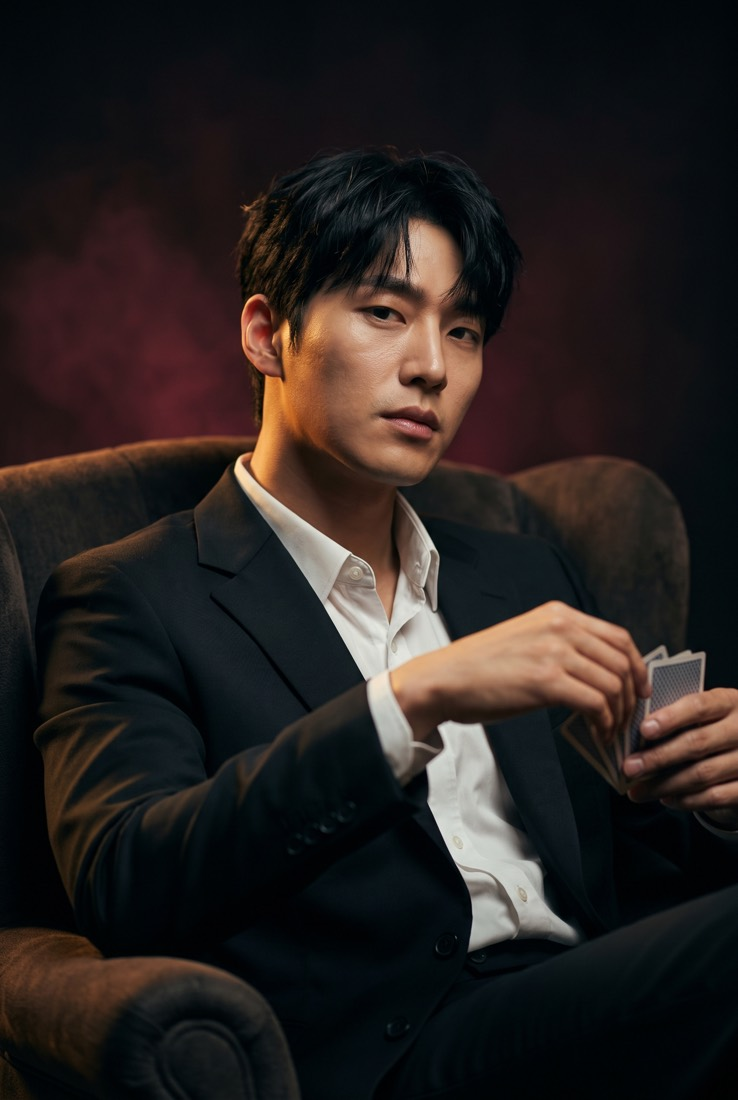
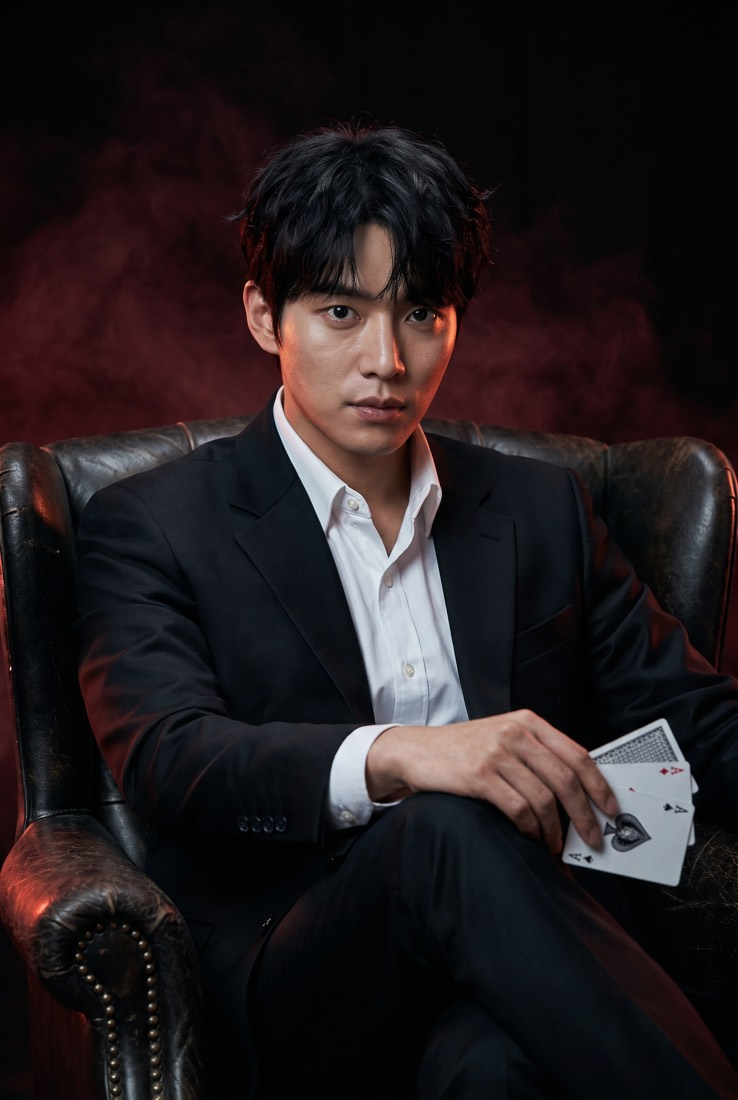
가상 캐릭터 6인 전원 공개 — 포커 스퀴즈 오픈 애니메이션 적용

diff --git a/index.html b/index.html
@@ -179,7 +179,16 @@ a{color:inherit}
 .gc:hover{border-color:var(--red-hot)}
 .gc .ph{position:relative;aspect-ratio:3/4;background:#0F0D10;perspective:1300px;cursor:pointer}
 .gc .flipin{position:absolute;inset:0;transform-style:preserve-3d;transition:transform .85s cubic-bezier(.2,.7,.2,1)}
-.gc .ph.open .flipin{transform:rotateY(180deg)}
+.gc .ph.open .flipin{transform:rotateY(180deg);animation:squeeze 2.6s cubic-bezier(.3,.12,.25,1)}
+@keyframes squeeze{
+  0%{transform:rotateY(0deg)}
+  12%{transform:rotateY(16deg) translateY(-10px) scale(1.02)}
+  30%{transform:rotateY(30deg) translateY(-10px) scale(1.02)}
+  56%{transform:rotateY(62deg) translateY(-10px) scale(1.02)}
+  68%{transform:rotateY(54deg) translateY(-6px) scale(1.01)}
+  100%{transform:rotateY(180deg)}
+}
+.gc .ph.open .face.cardback{box-shadow:0 24px 60px rgba(0,0,0,.6)}
 .gc .face{position:absolute;inset:0;backface-visibility:hidden;overflow:hidden}
 .gc .face.cardback{display:flex;flex-direction:column;align-items:center;justify-content:center;gap:14px;border:10px solid #0F0D10;background:
   repeating-linear-gradient(45deg, rgba(242,193,78,.14) 0 2px, transparent 2px 9px),
@@ -197,7 +206,7 @@ a{color:inherit}
   repeating-linear-gradient(-45deg, rgba(232,53,79,.10) 0 2px, transparent 2px 10px), #131015}
 .gc .face.reveal.tba .suit{font-size:5rem;color:rgba(242,193,78,.35);line-height:1}
 .gc .face.reveal.tba .tbamsg{position:absolute;bottom:16px;left:0;right:0;text-align:center;font-family:var(--mono);font-size:.62rem;letter-spacing:.24em;color:var(--gray)}
-@media (prefers-reduced-motion: reduce){.gc .flipin{transition:none}}
+@media (prefers-reduced-motion: reduce){.gc .flipin{transition:none}.gc .ph.open .flipin{animation:none}}
 .gc .bd{padding:18px 20px 20px}
 .gc .nm{display:flex;align-items:baseline;gap:10px;flex-wrap:wrap}
 .gc .nm b{font-family:var(--disp);font-weight:800;font-size:1.3rem;letter-spacing:.03em;text-transform:uppercase}
@@ -415,7 +424,7 @@ footer .mono{font-family:var(--mono);letter-spacing:.14em}
   <div class="gc">
     <div class="ph" role="button" tabindex="0" aria-label="card flip"><div class="flipin">
       <div class="face cardback"><span class="bsuit">K♠</span><span class="brand-sm">ALL-IN 2 · NOT OVER</span><span class="tap">TAP TO REVEAL</span></div>
-      <div class="face reveal tba"><span class="ai">AI VIRTUAL CHARACTER</span><span class="suit">♠</span><span class="tbamsg">VISUAL IN PRODUCTION</span></div>
+      <div class="face reveal"><span class="ai">AI VIRTUAL CHARACTER</span><img src="images/char_alex.jpg" alt=""></div>
     </div></div>
     <div class="bd"><div class="nm"><b data-i="c3_n">알렉스</b><span>THE EMPEROR</span></div>
       <div class="meta"><i data-i="c3_m1">30대 후반</i><i data-i="c3_m2">한국계 미국인</i><i data-i="c3_m3">두 얼굴의 황제</i></div>
@@ -424,7 +433,7 @@ footer .mono{font-family:var(--mono);letter-spacing:.14em}
   <div class="gc">
     <div class="ph" role="button" tabindex="0" aria-label="card flip"><div class="flipin">
       <div class="face cardback"><span class="bsuit">J♣</span><span class="brand-sm">ALL-IN 2 · NOT OVER</span><span class="tap">TAP TO REVEAL</span></div>
-      <div class="face reveal tba"><span class="ai">AI VIRTUAL CHARACTER</span><span class="suit">♣</span><span class="tbamsg">VISUAL IN PRODUCTION</span></div>
+      <div class="face reveal"><span class="ai">AI VIRTUAL CHARACTER</span><img src="images/char_jerry.jpg" alt=""></div>
     </div></div>
     <div class="bd"><div class="nm"><b data-i="c4_n">제리</b><span>THE BROTHER</span></div>
       <div class="meta"><i data-i="c4_m1">20대 초반</i><i data-i="c4_m2">한국계 미국인</i><i data-i="c4_m3">의리의 화신</i></div>
@@ -433,7 +442,7 @@ footer .mono{font-family:var(--mono);letter-spacing:.14em}
   <div class="gc">
     <div class="ph" role="button" tabindex="0" aria-label="card flip"><div class="flipin">
       <div class="face cardback"><span class="bsuit">K♦</span><span class="brand-sm">ALL-IN 2 · NOT OVER</span><span class="tap">TAP TO REVEAL</span></div>
-      <div class="face reveal tba"><span class="ai">AI VIRTUAL CHARACTER</span><span class="suit">♦</span><span class="tbamsg">VISUAL IN PRODUCTION</span></div>
+      <div class="face reveal"><span class="ai">AI VIRTUAL CHARACTER</span><img src="images/char_oh.jpg" alt=""></div>
     </div></div>
     <div class="bd"><div class="nm"><b data-i="c5_n">오명환</b><span>THE DON</span></div>
       <div class="meta"><i data-i="c5_m1">50대 후반</i><i data-i="c5_m2">한국 (부산 출신 재미 사업가)</i><i data-i="c5_m3">판 밖의 판을 치는 자</i></div>
@@ -442,7 +451,7 @@ footer .mono{font-family:var(--mono);letter-spacing:.14em}
   <div class="gc">
     <div class="ph" role="button" tabindex="0" aria-label="card flip"><div class="flipin">
       <div class="face cardback"><span class="bsuit">Q♦</span><span class="brand-sm">ALL-IN 2 · NOT OVER</span><span class="tap">TAP TO REVEAL</span></div>
-      <div class="face reveal tba"><span class="ai">AI VIRTUAL CHARACTER</span><span class="suit">♥</span><span class="tbamsg">VISUAL IN PRODUCTION</span></div>
+      <div class="face reveal"><span class="ai">AI VIRTUAL CHARACTER</span><img src="images/char_maggie.jpg" alt=""></div>
     </div></div>
     <div class="bd"><div class="nm"><b data-i="c6_n">매기</b><span>THE MOTHER</span></div>
       <div class="meta"><i data-i="c6_m1">50대 후반</i><i data-i="c6_m2">한국계 미국인</i><i data-i="c6_m3">정(情)의 뿌리</i></div>
